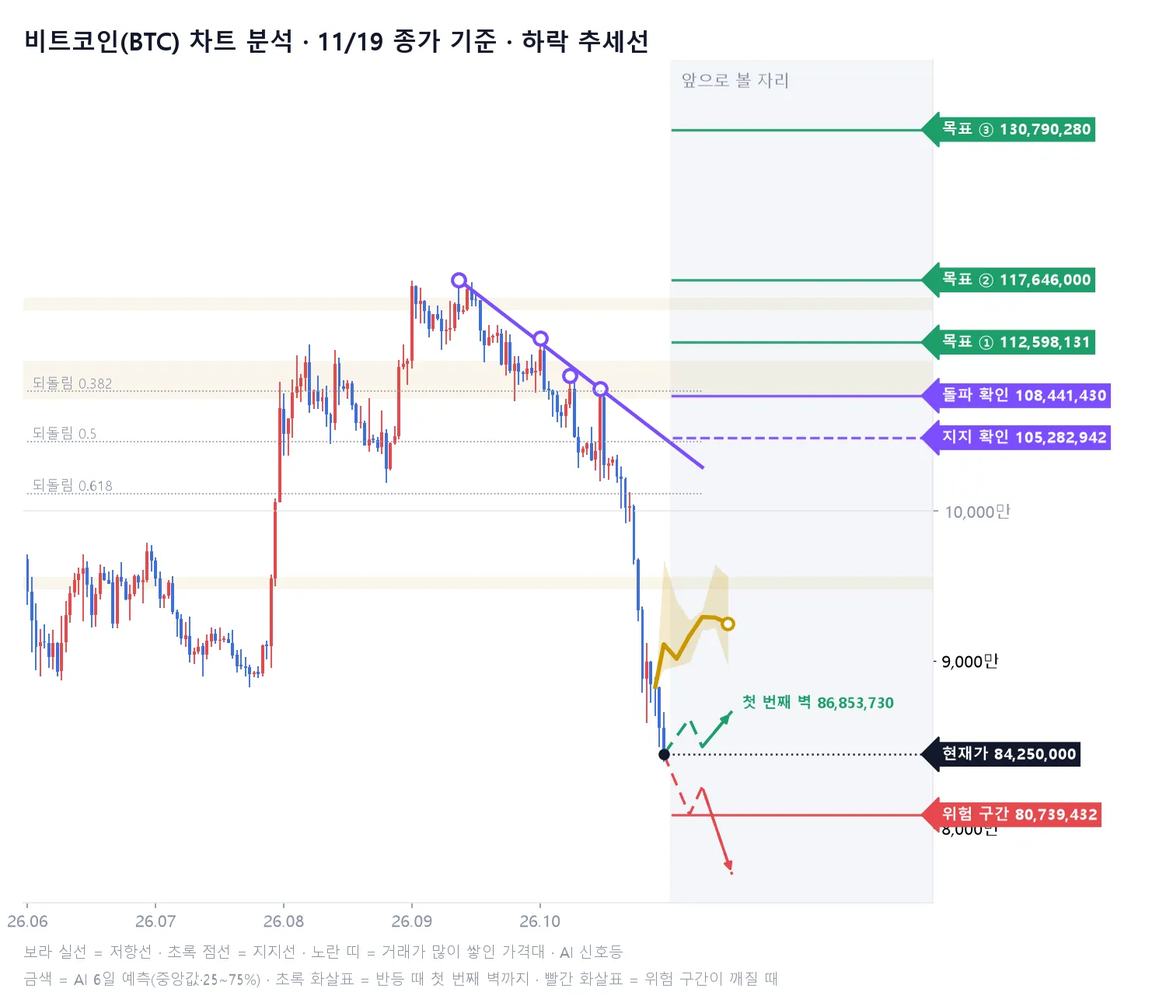
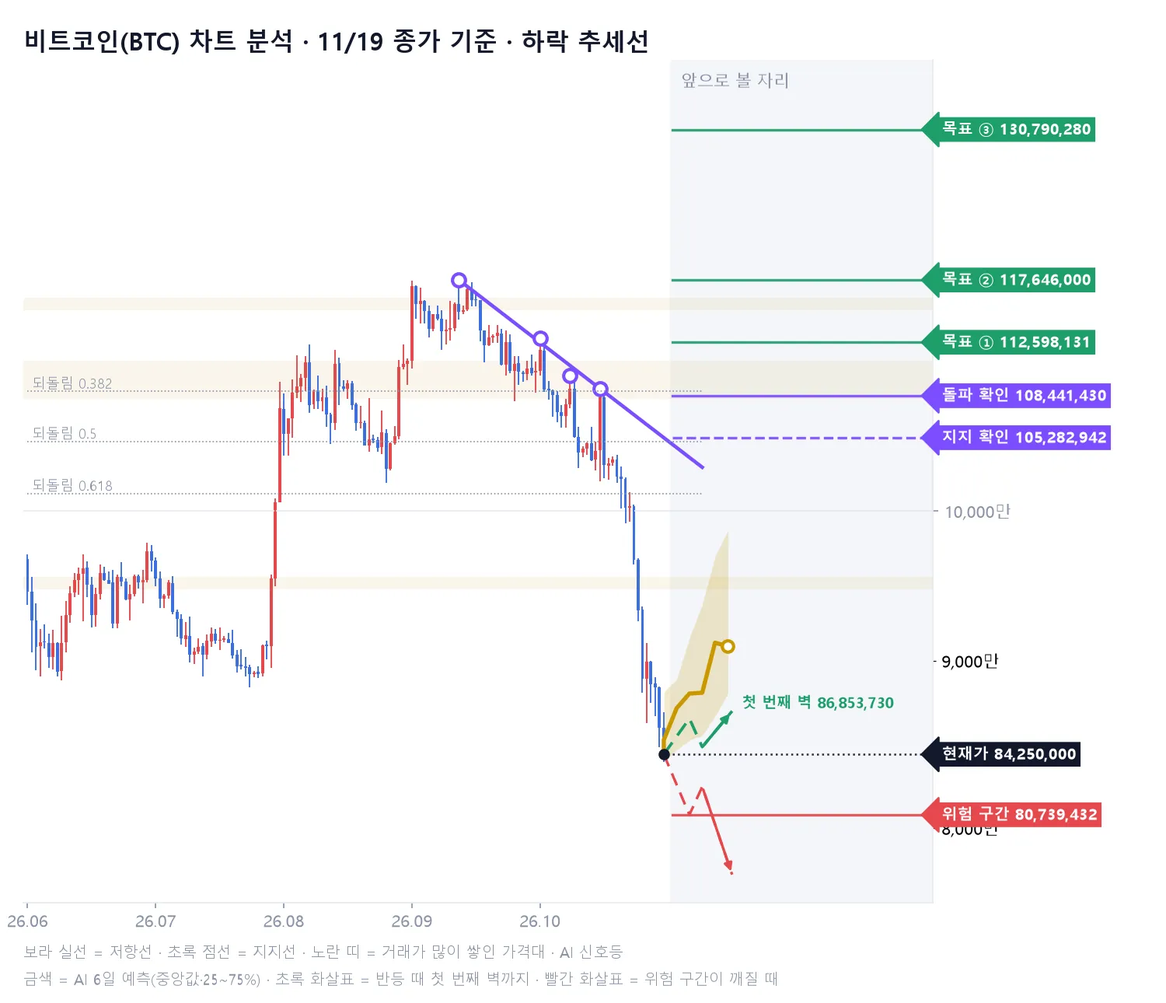
무료 공개 종목 페이지 자동 갱신

Changed region(s): [[0.552, 0.5581, 0.644, 0.7442], [0.6133, 0.5271, 0.644, 0.5891]]

diff --git a/s/index.html b/s/index.html
@@ -71,8 +71,8 @@
     <h1>오늘의 무료 공개 종목</h1>
     <p style="margin:0;color:#B7BFD0">유튜브 쇼츠에 나온 종목의 AI 판정과 6일 예측 흐름을 누구나 볼 수 있어요</p>
   </section>
-  <div class="pk-list"><a class="card pk-item" href="ETH/"><span><b>이더리움(ETH)</b><small>코인 · 업비트 · 11/19 예측</small></span><b class="v-mx">혼돈</b></a><a class="card pk-item" href="ETC/"><span><b>이더리움클래식(ETC)</b><small>코인 · 업비트 · 11/20 예측</small></span><b class="v-mx">혼돈</b></a><a class="card pk-item" href="APT/"><span><b>앱토스(APT)</b><small>코인 · 업비트 · 11/20 예측</small></span><b class="v-up">상승</b></a><a class="card pk-item" href="SUI/"><span><b>수이(SUI)</b><small>코인 · 업비트 · 11/20 예측</small></span><b class="v-mx">혼돈</b></a><a class="card pk-item" href="STRAX/"><span><b>저트라(STRAX)</b><small>코인 · 업비트 · 11/20 예측</small></span><b class="v-up">상승</b></a><a class="card pk-item" href="ENS/"><span><b>이더리움네임서비스(ENS)</b><small>코인 · 업비트 · 11/20 예측</small></span><b class="v-up">상승</b></a><a class="card pk-item" href="TESLA/"><span><b>테슬라(TSLA)</b><small>미국 주식 · 11/19 예측</small></span><b class="v-mx">혼돈</b></a><a class="card pk-item" href="MERCADOLIBRE/"><span><b>메르카도리브레(MERCADOLIBRE)</b><small>미국 주식 · 11/19 예측</small></span><b class="v-up">상승</b></a><a class="card pk-item" href="NVIDIA/"><span><b>엔비디아(NVIDIA)</b><small>미국 주식 · 11/19 예측</small></span><b class="v-up">상승</b></a><a class="card pk-item" href="STRATEGY/"><span><b>스트래티지(STRATEGY)</b><small>미국 주식 · 11/19 예측</small></span><b class="v-up">상승</b></a><a class="card pk-item" href="NETFLIX/"><span><b>넷플릭스(NETFLIX)</b><small>미국 주식 · 11/19 예측</small></span><b class="v-up">상승</b></a><a class="card pk-item" href="RUSSELL2000/"><span><b>러셀2000(RUSSELL2000)</b><small>미국 주식 · 11/19 예측</small></span><b class="v-up">상승</b></a><a class="card pk-item" href="SK%ED%95%98%EC%9D%B4%EB%8B%89%EC%8A%A4/"><span><b>SK하이닉스(000660)</b><small>코스피200 · 11/20 예측</small></span><b class="v-mx">혼돈</b></a><a class="card pk-item" href="%EC%82%BC%EC%84%B1%EC%A0%84%EC%9E%90/"><span><b>삼성전자(005930)</b><small>코스피200 · 11/19 예측</small></span><b class="v-mx">혼돈</b></a><a class="card pk-item" href="KODEXWTI%EC%9B%90%EC%9C%A0%EC%84%A0%EB%AC%BCH/"><span><b>KODEXWTI원유선물H</b><small>코스피200 · 11/20 예측</small></span><b class="v-up">상승</b></a><a class="card pk-item" href="%ED%95%9C%EC%A0%84%EA%B8%B0%EC%88%A0/"><span><b>한전기술</b><small>코스피200 · 11/20 예측</small></span><b class="v-up">상승</b></a><a class="card pk-item" href="KODEX%EB%AF%B8%EA%B5%AD%EB%82%98%EC%8A%A4%EB%8B%A5100TR/"><span><b>KODEX미국나스닥100TR</b><small>코스피200 · 11/20 예측</small></span><b class="v-mx">혼돈</b></a><a class="card pk-item" href="%ED%95%9C%ED%99%94%EC%86%94%EB%A3%A8%EC%85%98/"><span><b>한화솔루션</b><small>코스피200 · 11/20 예측</small></span><b class="v-mx">혼돈</b></a><a class="card pk-item" href="KODEX%EA%B3%A8%EB%93%9C%EC%84%A0%EB%AC%BCH/"><span><b>KODEX골드선물H</b><small>코스피200 · 11/20 예측</small></span><b class="v-mx">혼돈</b></a><a class="card pk-item" href="KOSDAQ/"><span><b>코스닥(KOSDAQ)</b><small>코스피 지수 · 11/20 예측</small></span><b class="v-up">상승</b></a><a class="card pk-item" href="KOSPI/"><span><b>코스피(KOSPI)</b><small>코스피 지수 · 11/20 예측</small></span><b class="v-up">상승</b></a></div>
-  <h2 style="font-size:17px;margin:12px 0 0">지난 공개 종목</h2><div class="pk-list"><a class="card pk-item" href="SHIB/"><span><b>시바이누(SHIB)</b><small>코인 · 업비트 · 11/19 예측</small></span><b class="v-up">상승</b></a><a class="card pk-item" href="TOKAMAK/"><span><b>토카막네트워크(TOKAMAK)</b><small>코인 · 업비트 · 11/19 예측</small></span><b class="v-up">상승</b></a><a class="card pk-item" href="TIGER%EB%AF%B8%EA%B5%ADSP500/"><span><b>TIGER미국SP500</b><small>코스피200 · 11/19 예측</small></span><b class="v-mx">혼돈</b></a><a class="card pk-item" href="%EA%B8%B0%EC%95%84/"><span><b>기아</b><small>코스피200 · 11/19 예측</small></span><b class="v-mx">혼돈</b></a><a class="card pk-item" href="%ED%98%84%EB%8C%80%EB%A1%9C%ED%85%9C/"><span><b>현대로템</b><small>코스피200 · 11/19 예측</small></span><b class="v-up">상승</b></a><a class="card pk-item" href="TIGER%EB%B0%98%EB%8F%84%EC%B2%B4TOP10/"><span><b>TIGER반도체TOP10</b><small>코스피200 · 11/19 예측</small></span><b class="v-up">상승</b></a><a class="card pk-item" href="BTC/"><span><b>비트코인(BTC)</b><small>코인 · 업비트 · 11/18 예측</small></span><b class="v-up">상승</b></a><a class="card pk-item" href="MBL/"><span><b>무비블록(MBL)</b><small>코인 · 업비트 · 11/18 예측</small></span><b class="v-up">상승</b></a><a class="card pk-item" href="SC/"><span><b>시아코인(SC)</b><small>코인 · 업비트 · 11/18 예측</small></span><b class="v-up">상승</b></a><a class="card pk-item" href="ELF/"><span><b>엘프(ELF)</b><small>코인 · 업비트 · 11/18 예측</small></span><b class="v-up">상승</b></a><a class="card pk-item" href="BITMINE/"><span><b>비트마인(BITMINE)</b><small>미국 주식 · 11/18 예측</small></span><b class="v-up">상승</b></a><a class="card pk-item" href="NASDAQ100/"><span><b>나스닥100(NASDAQ100)</b><small>미국 주식 · 11/18 예측</small></span><b class="v-up">상승</b></a><a class="card pk-item" href="NASDAQ/"><span><b>나스닥(NASDAQ)</b><small>미국 주식 · 11/18 예측</small></span><b class="v-up">상승</b></a><a class="card pk-item" href="DB%ED%95%98%EC%9D%B4%ED%85%8D/"><span><b>DB하이텍</b><small>코스피200 · 11/18 예측</small></span><b class="v-up">상승</b></a><a class="card pk-item" href="%ED%95%9C%ED%99%94%EC%83%9D%EB%AA%85/"><span><b>한화생명</b><small>코스피200 · 11/18 예측</small></span><b class="v-mx">혼돈</b></a><a class="card pk-item" href="SOL/"><span><b>솔라나(SOL)</b><small>코인 · 업비트 · 11/17 예측</small></span><b class="v-up">상승</b></a><a class="card pk-item" href="HBAR/"><span><b>헤데라(HBAR)</b><small>코인 · 업비트 · 11/17 예측</small></span><b class="v-up">상승</b></a><a class="card pk-item" href="NEAR/"><span><b>니어프로토콜(NEAR)</b><small>코인 · 업비트 · 11/17 예측</small></span><b class="v-up">상승</b></a><a class="card pk-item" href="CISCO/"><span><b>시스코(CISCO)</b><small>미국 주식 · 11/17 예측</small></span><b class="v-up">상승</b></a><a class="card pk-item" href="DB%EC%86%90%ED%95%B4%EB%B3%B4%ED%97%98/"><span><b>DB손해보험</b><small>코스피200 · 11/17 예측</small></span><b class="v-up">상승</b></a><a class="card pk-item" href="NIKKEI225/"><span><b>NIKKEI225</b><small>코스피200 · 11/17 예측</small></span><b class="v-up">상승</b></a><a class="card pk-item" href="LG/"><span><b>LG</b><small>코스피200 · 11/17 예측</small></span><b class="v-up">상승</b></a><a class="card pk-item" href="NEO/"><span><b>네오(NEO)</b><small>코인 · 업비트 · 11/16 예측</small></span><b class="v-up">상승</b></a><a class="card pk-item" href="MED/"><span><b>메디블록(MED)</b><small>코인 · 업비트 · 11/16 예측</small></span><b class="v-up">상승</b></a><a class="card pk-item" href="VET/"><span><b>비체인(VET)</b><small>코인 · 업비트 · 11/16 예측</small></span><b class="v-up">상승</b></a><a class="card pk-item" href="TFUEL/"><span><b>쎄타퓨엘(TFUEL)</b><small>코인 · 업비트 · 11/16 예측</small></span><b class="v-up">상승</b></a><a class="card pk-item" href="SP500/"><span><b>S&amp;P500(SPX)</b><small>미국 주식 · 11/14 예측</small></span><b class="v-dn">하락</b></a><a class="card pk-item" href="BITCOIN_ETF_FIDELITY/"><span><b>비트코인 현물 피델리티(BITCOIN_ETF_FIDELITY)</b><small>미국 주식 · 11/14 예측</small></span><b class="v-up">상승</b></a><a class="card pk-item" href="BITCOIN_ETF_ISHARES/"><span><b>비트코인 현물 아이셰어즈(BITCOIN_ETF_ISHARES)</b><small>미국 주식 · 11/14 예측</small></span><b class="v-up">상승</b></a></div>
+  <div class="pk-list"><a class="card pk-item" href="BTC/"><span><b>비트코인(BTC)</b><small>코인 · 업비트 · 11/20 예측</small></span><b class="v-mx">혼돈</b></a><a class="card pk-item" href="ETH/"><span><b>이더리움(ETH)</b><small>코인 · 업비트 · 11/19 예측</small></span><b class="v-mx">혼돈</b></a><a class="card pk-item" href="ETC/"><span><b>이더리움클래식(ETC)</b><small>코인 · 업비트 · 11/20 예측</small></span><b class="v-mx">혼돈</b></a><a class="card pk-item" href="APT/"><span><b>앱토스(APT)</b><small>코인 · 업비트 · 11/20 예측</small></span><b class="v-up">상승</b></a><a class="card pk-item" href="SUI/"><span><b>수이(SUI)</b><small>코인 · 업비트 · 11/20 예측</small></span><b class="v-mx">혼돈</b></a><a class="card pk-item" href="STRAX/"><span><b>저트라(STRAX)</b><small>코인 · 업비트 · 11/20 예측</small></span><b class="v-up">상승</b></a><a class="card pk-item" href="ENS/"><span><b>이더리움네임서비스(ENS)</b><small>코인 · 업비트 · 11/20 예측</small></span><b class="v-up">상승</b></a><a class="card pk-item" href="TESLA/"><span><b>테슬라(TSLA)</b><small>미국 주식 · 11/19 예측</small></span><b class="v-mx">혼돈</b></a><a class="card pk-item" href="MERCADOLIBRE/"><span><b>메르카도리브레(MERCADOLIBRE)</b><small>미국 주식 · 11/19 예측</small></span><b class="v-up">상승</b></a><a class="card pk-item" href="NVIDIA/"><span><b>엔비디아(NVIDIA)</b><small>미국 주식 · 11/19 예측</small></span><b class="v-up">상승</b></a><a class="card pk-item" href="STRATEGY/"><span><b>스트래티지(STRATEGY)</b><small>미국 주식 · 11/19 예측</small></span><b class="v-up">상승</b></a><a class="card pk-item" href="NETFLIX/"><span><b>넷플릭스(NETFLIX)</b><small>미국 주식 · 11/19 예측</small></span><b class="v-up">상승</b></a><a class="card pk-item" href="RUSSELL2000/"><span><b>러셀2000(RUSSELL2000)</b><small>미국 주식 · 11/19 예측</small></span><b class="v-up">상승</b></a><a class="card pk-item" href="SK%ED%95%98%EC%9D%B4%EB%8B%89%EC%8A%A4/"><span><b>SK하이닉스(000660)</b><small>코스피200 · 11/20 예측</small></span><b class="v-mx">혼돈</b></a><a class="card pk-item" href="%EC%82%BC%EC%84%B1%EC%A0%84%EC%9E%90/"><span><b>삼성전자(005930)</b><small>코스피200 · 11/19 예측</small></span><b class="v-mx">혼돈</b></a><a class="card pk-item" href="KODEXWTI%EC%9B%90%EC%9C%A0%EC%84%A0%EB%AC%BCH/"><span><b>KODEXWTI원유선물H</b><small>코스피200 · 11/20 예측</small></span><b class="v-up">상승</b></a><a class="card pk-item" href="%ED%95%9C%EC%A0%84%EA%B8%B0%EC%88%A0/"><span><b>한전기술</b><small>코스피200 · 11/20 예측</small></span><b class="v-up">상승</b></a><a class="card pk-item" href="KODEX%EB%AF%B8%EA%B5%AD%EB%82%98%EC%8A%A4%EB%8B%A5100TR/"><span><b>KODEX미국나스닥100TR</b><small>코스피200 · 11/20 예측</small></span><b class="v-mx">혼돈</b></a><a class="card pk-item" href="%ED%95%9C%ED%99%94%EC%86%94%EB%A3%A8%EC%85%98/"><span><b>한화솔루션</b><small>코스피200 · 11/20 예측</small></span><b class="v-mx">혼돈</b></a><a class="card pk-item" href="KODEX%EA%B3%A8%EB%93%9C%EC%84%A0%EB%AC%BCH/"><span><b>KODEX골드선물H</b><small>코스피200 · 11/20 예측</small></span><b class="v-mx">혼돈</b></a><a class="card pk-item" href="KOSDAQ/"><span><b>코스닥(KOSDAQ)</b><small>코스피 지수 · 11/20 예측</small></span><b class="v-up">상승</b></a><a class="card pk-item" href="KOSPI/"><span><b>코스피(KOSPI)</b><small>코스피 지수 · 11/20 예측</small></span><b class="v-up">상승</b></a></div>
+  <h2 style="font-size:17px;margin:12px 0 0">지난 공개 종목</h2><div class="pk-list"><a class="card pk-item" href="SHIB/"><span><b>시바이누(SHIB)</b><small>코인 · 업비트 · 11/19 예측</small></span><b class="v-up">상승</b></a><a class="card pk-item" href="TOKAMAK/"><span><b>토카막네트워크(TOKAMAK)</b><small>코인 · 업비트 · 11/19 예측</small></span><b class="v-up">상승</b></a><a class="card pk-item" href="TIGER%EB%AF%B8%EA%B5%ADSP500/"><span><b>TIGER미국SP500</b><small>코스피200 · 11/19 예측</small></span><b class="v-mx">혼돈</b></a><a class="card pk-item" href="%EA%B8%B0%EC%95%84/"><span><b>기아</b><small>코스피200 · 11/19 예측</small></span><b class="v-mx">혼돈</b></a><a class="card pk-item" href="%ED%98%84%EB%8C%80%EB%A1%9C%ED%85%9C/"><span><b>현대로템</b><small>코스피200 · 11/19 예측</small></span><b class="v-up">상승</b></a><a class="card pk-item" href="TIGER%EB%B0%98%EB%8F%84%EC%B2%B4TOP10/"><span><b>TIGER반도체TOP10</b><small>코스피200 · 11/19 예측</small></span><b class="v-up">상승</b></a><a class="card pk-item" href="MBL/"><span><b>무비블록(MBL)</b><small>코인 · 업비트 · 11/18 예측</small></span><b class="v-up">상승</b></a><a class="card pk-item" href="SC/"><span><b>시아코인(SC)</b><small>코인 · 업비트 · 11/18 예측</small></span><b class="v-up">상승</b></a><a class="card pk-item" href="ELF/"><span><b>엘프(ELF)</b><small>코인 · 업비트 · 11/18 예측</small></span><b class="v-up">상승</b></a><a class="card pk-item" href="BITMINE/"><span><b>비트마인(BITMINE)</b><small>미국 주식 · 11/18 예측</small></span><b class="v-up">상승</b></a><a class="card pk-item" href="NASDAQ100/"><span><b>나스닥100(NASDAQ100)</b><small>미국 주식 · 11/18 예측</small></span><b class="v-up">상승</b></a><a class="card pk-item" href="NASDAQ/"><span><b>나스닥(NASDAQ)</b><small>미국 주식 · 11/18 예측</small></span><b class="v-up">상승</b></a><a class="card pk-item" href="DB%ED%95%98%EC%9D%B4%ED%85%8D/"><span><b>DB하이텍</b><small>코스피200 · 11/18 예측</small></span><b class="v-up">상승</b></a><a class="card pk-item" href="%ED%95%9C%ED%99%94%EC%83%9D%EB%AA%85/"><span><b>한화생명</b><small>코스피200 · 11/18 예측</small></span><b class="v-mx">혼돈</b></a><a class="card pk-item" href="SOL/"><span><b>솔라나(SOL)</b><small>코인 · 업비트 · 11/17 예측</small></span><b class="v-up">상승</b></a><a class="card pk-item" href="HBAR/"><span><b>헤데라(HBAR)</b><small>코인 · 업비트 · 11/17 예측</small></span><b class="v-up">상승</b></a><a class="card pk-item" href="NEAR/"><span><b>니어프로토콜(NEAR)</b><small>코인 · 업비트 · 11/17 예측</small></span><b class="v-up">상승</b></a><a class="card pk-item" href="CISCO/"><span><b>시스코(CISCO)</b><small>미국 주식 · 11/17 예측</small></span><b class="v-up">상승</b></a><a class="card pk-item" href="DB%EC%86%90%ED%95%B4%EB%B3%B4%ED%97%98/"><span><b>DB손해보험</b><small>코스피200 · 11/17 예측</small></span><b class="v-up">상승</b></a><a class="card pk-item" href="NIKKEI225/"><span><b>NIKKEI225</b><small>코스피200 · 11/17 예측</small></span><b class="v-up">상승</b></a><a class="card pk-item" href="LG/"><span><b>LG</b><small>코스피200 · 11/17 예측</small></span><b class="v-up">상승</b></a><a class="card pk-item" href="NEO/"><span><b>네오(NEO)</b><small>코인 · 업비트 · 11/16 예측</small></span><b class="v-up">상승</b></a><a class="card pk-item" href="MED/"><span><b>메디블록(MED)</b><small>코인 · 업비트 · 11/16 예측</small></span><b class="v-up">상승</b></a><a class="card pk-item" href="VET/"><span><b>비체인(VET)</b><small>코인 · 업비트 · 11/16 예측</small></span><b class="v-up">상승</b></a><a class="card pk-item" href="TFUEL/"><span><b>쎄타퓨엘(TFUEL)</b><small>코인 · 업비트 · 11/16 예측</small></span><b class="v-up">상승</b></a><a class="card pk-item" href="SP500/"><span><b>S&amp;P500(SPX)</b><small>미국 주식 · 11/14 예측</small></span><b class="v-dn">하락</b></a><a class="card pk-item" href="BITCOIN_ETF_FIDELITY/"><span><b>비트코인 현물 피델리티(BITCOIN_ETF_FIDELITY)</b><small>미국 주식 · 11/14 예측</small></span><b class="v-up">상승</b></a><a class="card pk-item" href="BITCOIN_ETF_ISHARES/"><span><b>비트코인 현물 아이셰어즈(BITCOIN_ETF_ISHARES)</b><small>미국 주식 · 11/14 예측</small></span><b class="v-up">상승</b></a></div>
   <section class="card pk-cta">
     <b style="font-size:17px">전체 종목 순위와 모델별 차트는 회원 화면에서</b>
     <a class="btn big red" href="../login.html?next=index.html#signup" data-member="../index.html" data-member-text="내 포털로 가기">7일 무료로 시작하기</a>

diff --git a/s/BTC/index.html b/s/BTC/index.html
@@ -3,13 +3,13 @@
 <head>
 <meta charset="utf-8">
 <meta name="viewport" content="width=device-width, initial-scale=1">
-<title>비트코인(BTC) 전망 11/18 · AI 52개 모델 6일 예측 | AI 신호등</title>
-<meta name="description" content="11/18 기준 비트코인(BTC) 다음 거래일 AI 판정은 &#x27;상승&#x27;. 52개 모델 중 상승 51 · 하락 1. 6일 뒤 예측 중앙값 +4.6%. 52개 예측 모델의 6일 가격 흐름을 신호등으로 정리했어요.">
+<title>비트코인(BTC) 전망 11/20 · AI 52개 모델 6일 예측 | AI 신호등</title>
+<meta name="description" content="11/20 기준 비트코인(BTC) 다음 거래일 AI 판정은 &#x27;혼돈&#x27;. 52개 모델 중 상승 27 · 하락 15. 6일 뒤 예측 중앙값 +7.9%. 52개 예측 모델의 6일 가격 흐름을 신호등으로 정리했어요.">
 <link rel="canonical" href="https://www.ai-sinhodeung.co.kr/s/BTC/">
 <meta property="og:type" content="article">
 <meta property="og:site_name" content="AI 신호등">
-<meta property="og:title" content="비트코인(BTC) 전망 11/18 · AI 52개 모델 6일 예측 | AI 신호등">
-<meta property="og:description" content="11/18 기준 비트코인(BTC) 다음 거래일 AI 판정은 &#x27;상승&#x27;. 52개 모델 중 상승 51 · 하락 1. 6일 뒤 예측 중앙값 +4.6%. 52개 예측 모델의 6일 가격 흐름을 신호등으로 정리했어요.">
+<meta property="og:title" content="비트코인(BTC) 전망 11/20 · AI 52개 모델 6일 예측 | AI 신호등">
+<meta property="og:description" content="11/20 기준 비트코인(BTC) 다음 거래일 AI 판정은 &#x27;혼돈&#x27;. 52개 모델 중 상승 27 · 하락 15. 6일 뒤 예측 중앙값 +7.9%. 52개 예측 모델의 6일 가격 흐름을 신호등으로 정리했어요.">
 <meta property="og:url" content="https://www.ai-sinhodeung.co.kr/s/BTC/">
 <meta property="og:image" content="https://www.ai-sinhodeung.co.kr/assets/og-image.png">
 <meta property="og:locale" content="ko_KR">
@@ -54,7 +54,7 @@
 .ca-combo { border: 1.5px solid #C99700; background: #FFF9E6; border-radius: 10px; padding: 12px 14px; font-size: 14.5px; line-height: 1.6; }
 .ca-combo b { color: #8A6A00; }
 </style>
-<script type="application/ld+json">{"@context": "https://schema.org", "@type": "Article", "headline": "비트코인(BTC) 전망 11/18 · AI 52개 모델 6일 예측 | AI 신호등", "description": "11/18 기준 비트코인(BTC) 다음 거래일 AI 판정은 '상승'. 52개 모델 중 상승 51 · 하락 1. 6일 뒤 예측 중앙값 +4.6%. 52개 예측 모델의 6일 가격 흐름을 신호등으로 정리했어요.", "dateModified": "2026-11-18", "inLanguage": "ko", "url": "https://www.ai-sinhodeung.co.kr/s/BTC/", "publisher": {"@type": "Organization", "name": "AI 신호등", "url": "https://www.ai-sinhodeung.co.kr"}}</script>
+<script type="application/ld+json">{"@context": "https://schema.org", "@type": "Article", "headline": "비트코인(BTC) 전망 11/20 · AI 52개 모델 6일 예측 | AI 신호등", "description": "11/20 기준 비트코인(BTC) 다음 거래일 AI 판정은 '혼돈'. 52개 모델 중 상승 27 · 하락 15. 6일 뒤 예측 중앙값 +7.9%. 52개 예측 모델의 6일 가격 흐름을 신호등으로 정리했어요.", "dateModified": "2026-11-20", "inLanguage": "ko", "url": "https://www.ai-sinhodeung.co.kr/s/BTC/", "publisher": {"@type": "Organization", "name": "AI 신호등", "url": "https://www.ai-sinhodeung.co.kr"}}</script>
 </head>
 <body class="home landing">
 <header class="topbar">
@@ -67,35 +67,35 @@
 
 <main class="pk">
   <section class="pk-hero on-night">
-    <small>코인 · 업비트 · 11/18 예측 · AI 모델 52개</small>
+    <small>코인 · 업비트 · 11/20 예측 · AI 모델 52개</small>
     <h1>비트코인(BTC) 전망</h1>
   </section>
 
   <section class="card">
     <div class="pk-verdict">
-      <div class="lamp up" aria-hidden="true"><i></i><i></i><i></i></div>
+      <div class="lamp mx" aria-hidden="true"><i></i><i></i><i></i></div>
       <div><small style="color:var(--muted);font-size:12.5px">다음 거래일(D+1) AI 판정</small><br>
-        <b class="v-up">상승</b><br><span>52개 모델 중 상승 51 · 하락 1</span></div>
+        <b class="v-mx">혼돈</b><br><span>52개 모델 중 상승 27 · 하락 15</span></div>
     </div>
-    <p style="margin:10px 0 0;color:var(--sub);font-size:14px">참고: D+4 고점 후 되돌림</p>
+    <p style="margin:10px 0 0;color:var(--sub);font-size:14px">참고: 박스권 횡보</p>
   </section>
 
   <section class="card">
     <h3 style="margin-bottom:6px">6일 예측 흐름</h3>
-    <p class="hint" style="margin:0 0 10px;font-size:13px">기준가 88,341,000원 · 6일 뒤 예측 중앙값 <b class="v-up">+4.6%</b></p>
+    <p class="hint" style="margin:0 0 10px;font-size:13px">기준가 84,250,000원 · 6일 뒤 예측 중앙값 <b class="v-mx">+7.9%</b></p>
     <svg viewBox="0 0 520 300" role="img" aria-label="최근 8일 종가와 앞으로 6일 예측 범위" class="pk-chart">
   <line x1="277.1" y1="30" x2="277.1" y2="266" stroke="#C5CAD6" stroke-dasharray="4 4"/>
-  <polygon points="277.1,249.7 315.2,109.2 353.4,156.4 391.5,177.4 429.7,166.5 467.8,114.7 506.0,128.7 506.0,227.2 467.8,186.0 429.7,188.6 391.5,223.4 353.4,227.6 315.2,231.1 277.1,249.7" fill="#E5383B" fill-opacity=".14"/>
-  <polyline points="10.0,48.4 48.2,46.3 86.3,109.8 124.5,166.9 162.6,241.0 200.8,222.5 238.9,246.5 277.1,249.7" fill="none" stroke="#12182B" stroke-width="2.4" stroke-linejoin="round"/>
-  <polyline points="277.1,249.7 315.2,204.1 353.4,219.7 391.5,195.0 429.7,174.1 467.8,174.7 506.0,181.0" fill="none" stroke="#E5383B" stroke-width="3" stroke-linejoin="round"/>
-  <circle cx="277.1" cy="249.7" r="4.5" fill="#12182B"/>
-  <circle cx="506.0" cy="181.0" r="6" fill="#fff" stroke="#E5383B" stroke-width="3"/>
-  <text x="506" y="20" text-anchor="end" font-size="18" font-weight="700" fill="#E5383B">6일 뒤 +4.6%</text>
-  <text x="10" y="290" font-size="15" fill="#8A93A6">11-10</text>
-  <text x="277.1" y="290" font-size="15" fill="#12182B" text-anchor="middle" font-weight="600">11-17 기준</text>
-  <text x="506" y="290" font-size="15" fill="#8A93A6" text-anchor="end">11-23</text>
+  <polygon points="277.1,243.6 315.2,191.8 353.4,180.8 391.5,145.1 429.7,114.9 467.8,70.8 506.0,46.3 506.0,193.0 467.8,212.1 429.7,228.2 391.5,232.0 353.4,239.9 315.2,249.7 277.1,243.6" fill="#C99700" fill-opacity=".14"/>
+  <polyline points="10.0,74.0 48.2,120.3 86.3,180.3 124.5,165.3 162.6,184.8 200.8,187.4 238.9,222.0 277.1,243.6" fill="none" stroke="#12182B" stroke-width="2.4" stroke-linejoin="round"/>
+  <polyline points="277.1,243.6 315.2,231.8 353.4,205.5 391.5,193.0 429.7,192.3 467.8,149.0 506.0,152.0" fill="none" stroke="#C99700" stroke-width="3" stroke-linejoin="round"/>
+  <circle cx="277.1" cy="243.6" r="4.5" fill="#12182B"/>
+  <circle cx="506.0" cy="152.0" r="6" fill="#fff" stroke="#C99700" stroke-width="3"/>
+  <text x="506" y="20" text-anchor="end" font-size="18" font-weight="700" fill="#C99700">6일 뒤 +7.9%</text>
+  <text x="10" y="290" font-size="15" fill="#8A93A6">11-12</text>
+  <text x="277.1" y="290" font-size="15" fill="#12182B" text-anchor="middle" font-weight="600">11-19 기준</text>
+  <text x="506" y="290" font-size="15" fill="#8A93A6" text-anchor="end">11-25</text>
 </svg>
-    <div class="pk-legend"><span><i style="background:#12182B"></i>실제 종가</span><span><i style="background:#E5383B"></i>모델 예측 중앙값</span><span><i style="background:#E5383B;height:8px;opacity:.2"></i>모델 25~75% 범위</span></div>
+    <div class="pk-legend"><span><i style="background:#12182B"></i>실제 종가</span><span><i style="background:#C99700"></i>모델 예측 중앙값</span><span><i style="background:#C99700;height:8px;opacity:.2"></i>모델 25~75% 범위</span></div>
   </section>
 
 
@@ -110,7 +110,7 @@
     <a href="chart.webp?v=2026-11-19" target="_blank" rel="noopener"><img src="chart.webp?v=2026-11-19" alt="비트코인(BTC) 차트 분석: 저항선·지지선·앞으로 볼 자리" loading="lazy"></a>
     <small style="color:var(--muted);font-size:12px;margin-top:-8px">그림을 누르면 크게 볼 수 있어요</small>
     <div class="ca-pat">지금 모양: <b>하락 추세선</b><br>고점이 차례로 낮아지는 하락 흐름 — 이 선을 위로 넘어서야 흐름이 바뀐 걸로 봐요</div>
-    <div class="ca-combo"><b>🤖 AI 예측과 같이 보면</b><br>다음 거래일 AI 판정 &#x27;상승&#x27;. AI 6일 예측 중앙값은 +4.6%(92,394,528)로, 저항선(105,282,942)까지는 못 미쳐요 → 당분간은 돌파보다 아래 지지 자리를 지키는지 보는 구간이에요.</div>
+    <div class="ca-combo"><b>🤖 AI 예측과 같이 보면</b><br>다음 거래일 AI 판정 &#x27;혼돈&#x27;. AI 6일 예측 중앙값은 +7.9%(90,912,898)로, 저항선(105,282,942)까지는 못 미쳐요 → 당분간은 돌파보다 아래 지지 자리를 지키는지 보는 구간이에요.</div>
     <div><h4 style="margin:0 0 8px">앞으로 볼 자리</h4><div class="ca-lv"><div class="goal"><b>목표 구간 ③</b><span>130,790,280원</span><small>수평 고점</small></div><div class="goal"><b>목표 구간 ②</b><span>117,646,000원</span><small>패턴 시작 고점</small></div><div class="goal"><b>목표 구간 ①</b><span>112,598,131원</span><small>수평 고점</small></div><div class="watch"><b>돌파 확인 자리</b><span>108,441,430원</span><small>종가가 저항선보다 3% 넘게 위에서 마감 (돌파 뒤 102,124,454 아래로 다시 마감하면 돌파 실패)</small></div><div class="watch"><b>지지 확인 자리</b><span>105,282,942원</span><small>돌파 뒤 저항선이 받쳐 주는지</small></div><div class="risk"><b>위험 구간</b><span>80,739,432원</span><small>지금 가격 아래 지지선. 이 아래로 마감하면 하락 흐름이 이어질 수 있어요</small></div></div></div>
     <div><h4 style="margin:0 0 6px">해석</h4><ul><li>저항선이 하루에 약 0.2%씩 내려오고 있어서, &#x27;돌파 확인 자리&#x27;도 날마다 조금씩 낮아져요. 그림의 초록 점선은 가격이 이 선과 만난 뒤 돌파할 때의 예상 흐름이에요.</li><li>지금 가격은 저항선보다 25% 아래예요. 아직 돌파를 말하기엔 거리가 있어요.</li><li>직전 큰 상승분을 모두 되돌렸어요. 새 바닥이 확인될 때까지는 조심스럽게 봐요.</li><li>아래에서 받쳐 줄 자리: 80,739,432</li><li>이더리움 상태: 특별한 경고 없음</li></ul></div>
     <p class="pk-note" style="text-align:left">차트 모양을 규칙대로 자동 분석한 참고 자료예요. 특정 가격에 사고팔라는 권유가 아니며, 가격이 어느 자리에 있는지 보는 용도로만 써 주세요.</p>
